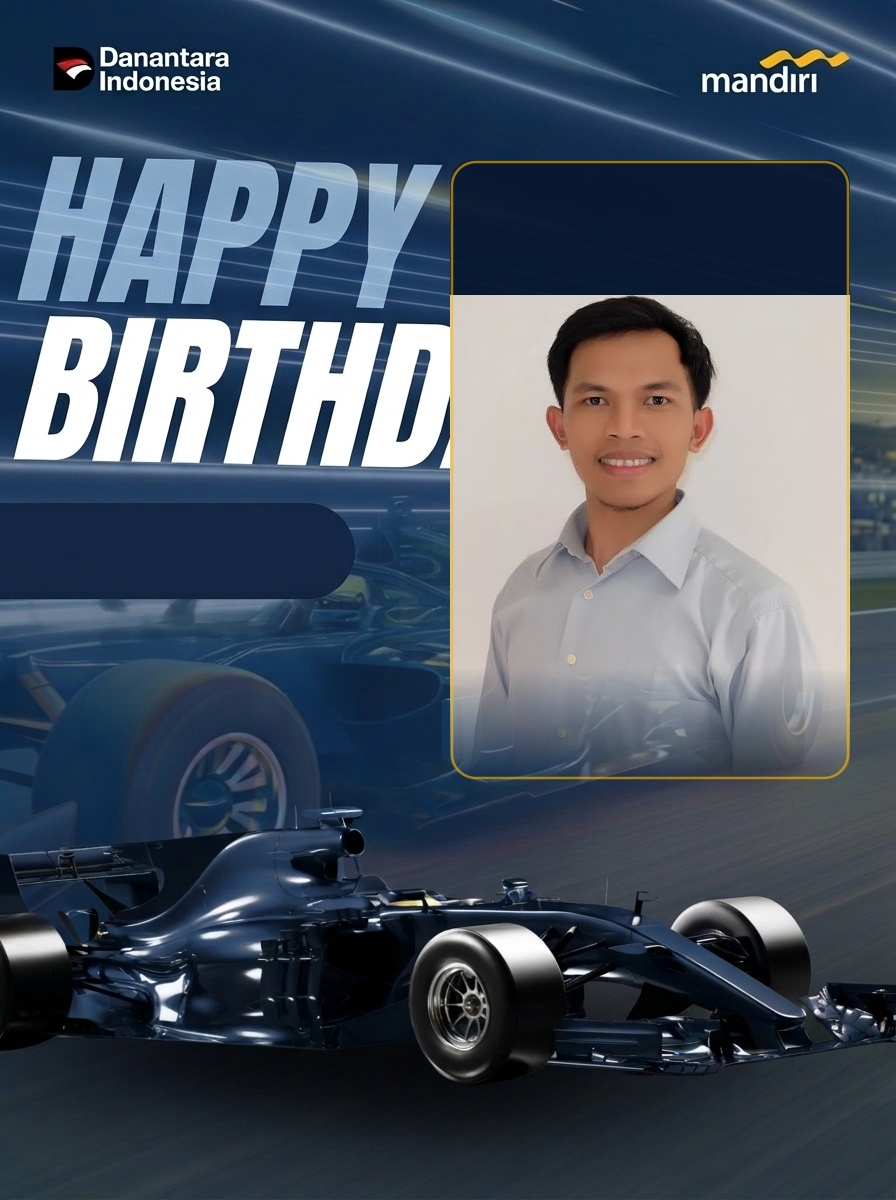
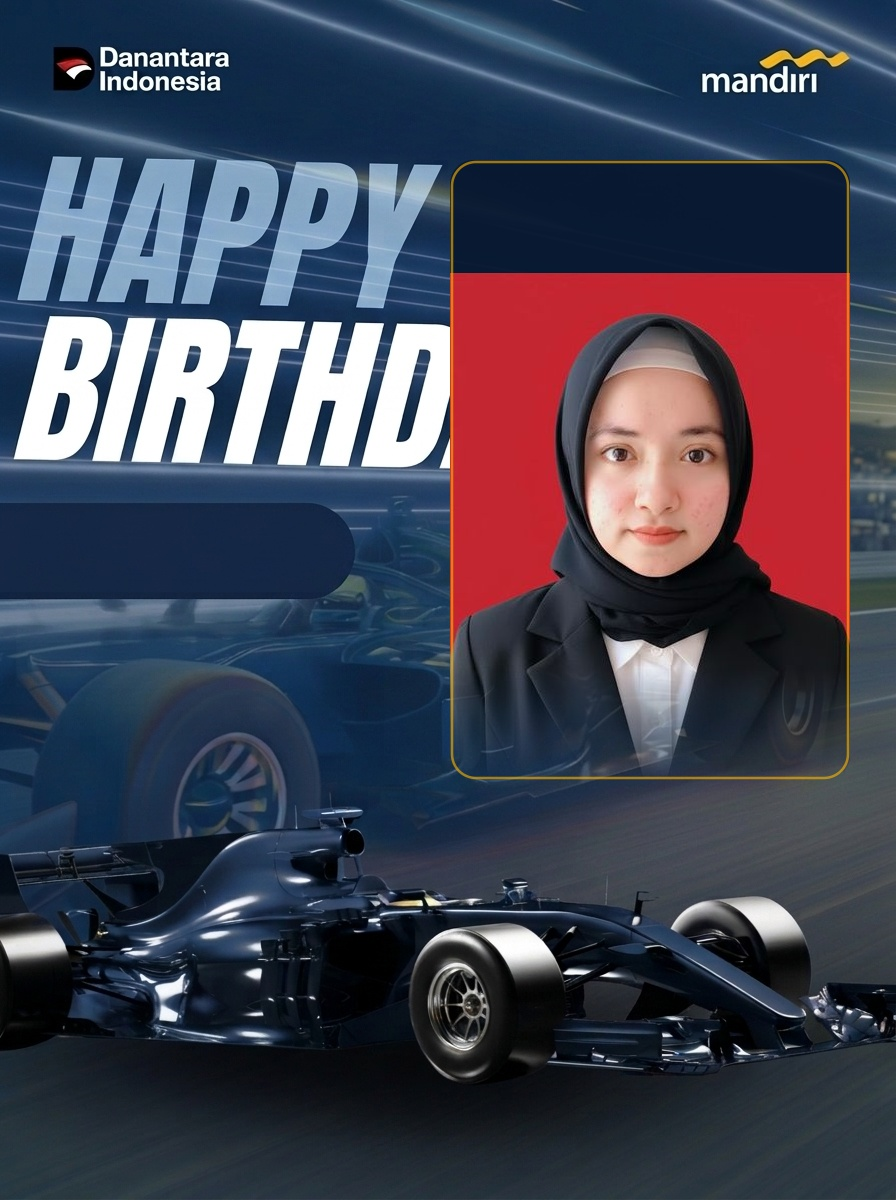
fix(cards): remap all official F1 cards to new employee IDs, slugs, and NIPs; eliminate Sri Mulyani fallback

Changed region(s): [[0.5, 0.2158, 0.9688, 0.6475]]

diff --git a/public/app.js b/public/app.js
@@ -1289,16 +1289,12 @@ const cachedF1SuitOverlay = new Image();
 cachedF1SuitOverlay.src = 'assets/f1_racing_suit_overlay.png';
 
 const cachedF1RealisticTemplate = new Image();
-cachedF1RealisticTemplate.src = 'assets/f1_cards/EMP-0001.jpg';
+cachedF1RealisticTemplate.src = 'assets/f1_card_clean_template.jpg';
 
 const preBakedCards = new Set([
-  'EMP-0001',
-  'EMP-0003',
-  'EMP-0110',
-  'EMP-0173',
-  'EMP-0259',
-  'EMP-0458',
-  'EMP-0489'
+  'EMP-0001', 'EMP-0003', 'EMP-0109', 'EMP-0110', 'EMP-0118', 'EMP-0126', 'EMP-0127',
+  'EMP-0173', 'EMP-0178', 'EMP-0202', 'EMP-0203', 'EMP-0215', 'EMP-0259', 'EMP-0262',
+  'EMP-0298', 'EMP-0446', 'EMP-0458', 'EMP-0478', 'EMP-0479', 'EMP-0485', 'EMP-0489'
 ]);
 
 function formatF1Date(rawDate) {
@@ -1431,30 +1427,56 @@ function populateF1EmpSelector(selectedId) {
   }
 }
 
+function getEmployeeCardCandidateUrls(emp) {
+  if (!emp) return [];
+  const nameSlug = (emp.nama || '').toLowerCase().replace(/[^a-z0-9]/g, '_').replace(/_+/g, '_').replace(/^_|_$/g, '');
+  const list = [
+    `assets/f1_cards/${emp.id}.jpg`,
+    nameSlug ? `assets/f1_cards/${nameSlug}.jpg` : null,
+    emp.nip && emp.nip !== '-' ? `assets/f1_cards/nip_${emp.nip}.jpg` : null
+  ].filter(Boolean);
+  return list;
+}
+
 function loadF1EmployeePhoto(emp) {
   if (!emp) return;
   const btnUseDb = document.getElementById("btnUseDbPhoto");
 
-  // Load the official F1 realistic card for this employee
-  const aiCardImg = new Image();
-  aiCardImg.onload = () => {
-    if (state.f1Studio && state.f1Studio.selectedEmpId === emp.id) {
-      state.f1Studio.generatedF1Card = aiCardImg;
-      renderCard();
+  const candidates = getEmployeeCardCandidateUrls(emp);
+  let idx = 0;
+
+  const tryNextCandidate = () => {
+    if (idx >= candidates.length) {
+      // Fallback: If no custom AI card exists, use clean F1 racing template!
+      const fallbackImg = new Image();
+      fallbackImg.onload = () => {
+        if (state.f1Studio && state.f1Studio.selectedEmpId === emp.id) {
+          state.f1Studio.generatedF1Card = fallbackImg;
+          state.f1Studio.forceBadge = true;
+          renderCard();
+        }
+      };
+      fallbackImg.src = `assets/f1_card_clean_template.jpg?t=${Date.now()}`;
+      return;
     }
-  };
-  aiCardImg.onerror = () => {
-    // Fallback to high-res realistic template (EMP-0001)
-    const fallbackImg = new Image();
-    fallbackImg.onload = () => {
+
+    const testUrl = `${candidates[idx]}?t=${Date.now()}`;
+    idx++;
+
+    const img = new Image();
+    img.onload = () => {
       if (state.f1Studio && state.f1Studio.selectedEmpId === emp.id) {
-        state.f1Studio.generatedF1Card = fallbackImg;
+        state.f1Studio.generatedF1Card = img;
         renderCard();
       }
     };
-    fallbackImg.src = `assets/f1_cards/EMP-0001.jpg?t=${Date.now()}`;
+    img.onerror = () => {
+      tryNextCandidate();
+    };
+    img.src = testUrl;
   };
-  aiCardImg.src = `assets/f1_cards/${emp.id}.jpg?t=${Date.now()}`;
+
+  tryNextCandidate();
 
   // Also load database photo thumbnail for dropzone preview
   const photoImg = new Image();
@@ -1477,11 +1499,7 @@ function loadF1EmployeePhoto(emp) {
         }
         if (btnUseDb) btnUseDb.style.display = 'inline-block';
       };
-      if (emp.foto.includes('drive.google.com')) {
-        fbImg.src = `/api/photo-proxy?url=${encodeURIComponent(emp.foto)}`;
-      } else {
-        fbImg.src = emp.foto;
-      }
+      fbImg.src = emp.foto;
     } else {
       if (btnUseDb) btnUseDb.style.display = 'none';
     }
@@ -1817,26 +1835,37 @@ async function triggerAiF1Generation(uploadedPhotoBase64) {
   }
 
   // SKENARIO 2: Foto database pegawai yang dipilih
-  const empId = (state.f1Studio && state.f1Studio.selectedEmpId) ? state.f1Studio.selectedEmpId : 'EMP-0001';
-  const aiCardImg = new Image();
-  aiCardImg.onload = () => {
-    state.f1Studio.generatedF1Card = aiCardImg;
-    state.f1Studio.isCustomFace = false;
+  const emp = state.f1Studio ? state.f1Studio.employee : null;
+  const candidates = getEmployeeCardCandidateUrls(emp);
+  let idx = 0;
 
-    // Cek apakah user mengubah teks nama/jabatan
-    const emp = state.f1Studio.employee;
-    const isOriginal = emp && (state.f1Studio.nama || '').trim().toLowerCase() === (emp.nama || '').trim().toLowerCase();
-    state.f1Studio.forceBadge = !isOriginal;
+  const tryAiCandidate = () => {
+    if (idx >= candidates.length) {
+      state.f1Studio.generatedF1Card = null;
+      state.f1Studio.isCustomFace = true;
+      state.f1Studio.forceBadge = true;
+      finishAi();
+      return;
+    }
 
-    finishAi();
+    const testUrl = `${candidates[idx]}?t=${Date.now()}`;
+    idx++;
+
+    const img = new Image();
+    img.onload = () => {
+      state.f1Studio.generatedF1Card = img;
+      state.f1Studio.isCustomFace = false;
+      const isOriginal = emp && (state.f1Studio.nama || '').trim().toLowerCase() === (emp.nama || '').trim().toLowerCase();
+      state.f1Studio.forceBadge = !isOriginal;
+      finishAi();
+    };
+    img.onerror = () => {
+      tryAiCandidate();
+    };
+    img.src = testUrl;
   };
-  aiCardImg.onerror = () => {
-    state.f1Studio.generatedF1Card = null;
-    state.f1Studio.isCustomFace = true;
-    state.f1Studio.forceBadge = true;
-    finishAi();
-  };
-  aiCardImg.src = `assets/f1_cards/${empId}.jpg?t=${Date.now()}`;
+
+  tryAiCandidate();
 }
 
 function downloadF1Card() {

diff --git a/public/index.html b/public/index.html
@@ -594,6 +594,6 @@
   <!-- Toast Notification Container -->
   <div class="toast-container" id="toastContainer"></div>
 
-  <script src="app.js?v=20261018_realtimesync_493"></script>
+  <script src="app.js?v=20261018_f1_real_photos_fix"></script>
 </body>
 </html>
